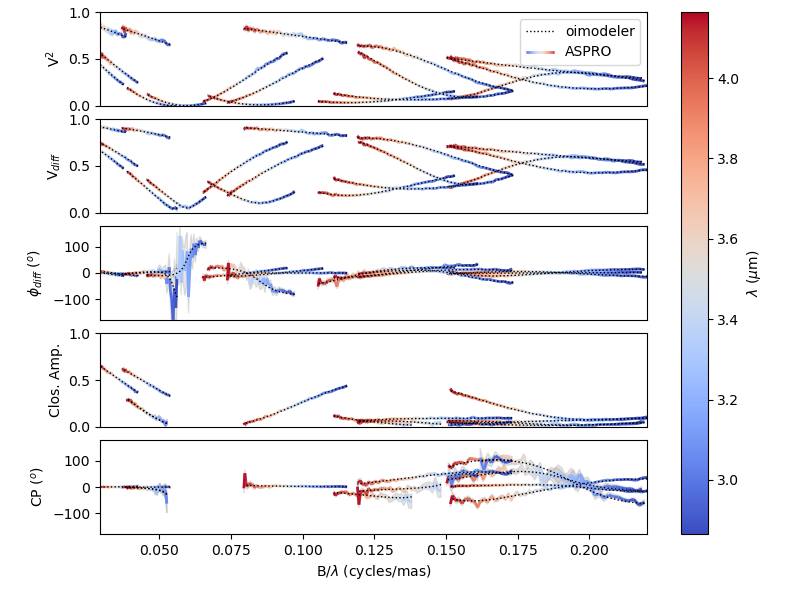
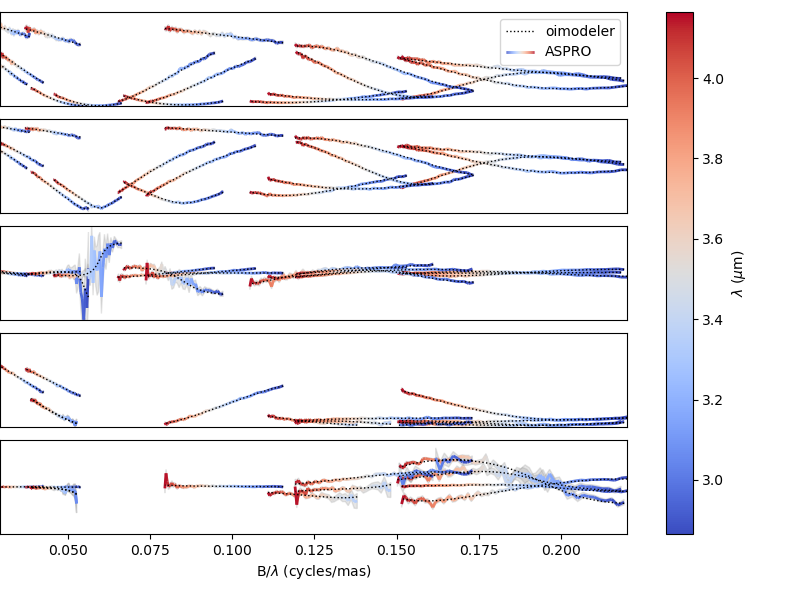
small modif plot create simulator

diff --git a/examples/BasicExamples/createSimulator.py b/examples/BasicExamples/createSimulator.py
@@ -50,7 +50,7 @@ from matplotlib.collections import LineCollection
 
 #Set the projection to oimAxes for all subplots to be able to use oimodeler custom plots
 fig,ax=plt.subplots(5,1,sharex=True,figsize=(8,6),subplot_kw=dict(projection='oimAxes'))
-plt.subplots_adjust(top=0.98,right=0.98,hspace=0.14)
+plt.subplots_adjust(left=0,top=0.98,right=0.98,hspace=0.14)
 
 #list of data type to be plotted
 arr=["VIS2DATA","VISAMP","VISPHI","T3AMP","T3PHI"]
